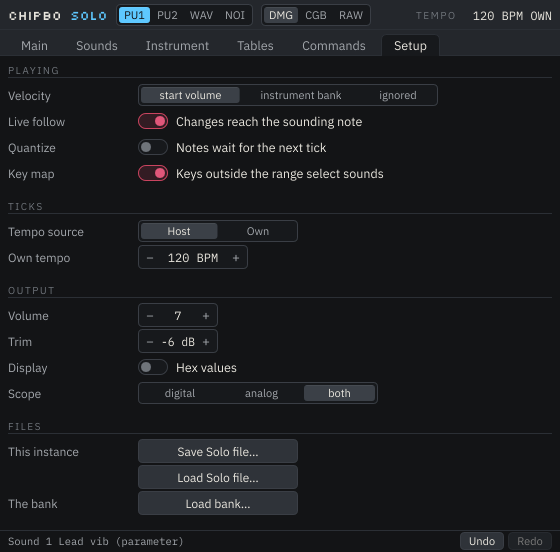
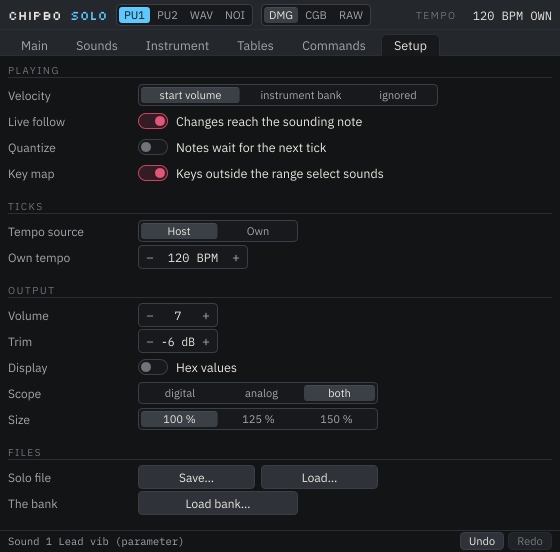
Solo: the window's size at 100 / 125 / 150 %, Save and Load on one Setup row
The content stays laid out at 560 x 552 and a transform draws it larger,
as the main window does; the choice is kept in the state as ui_scale. The
Setup page fits again without scrolling.

Claude-Session: https://claude.ai/code/session_017xjfhsuF4KGRWmf3FzZwSg

Changed region(s): [[0.2429, 0.7391, 0.6982, 0.8931], [0.0, 0.7391, 0.1518, 0.8931]]

diff --git a/Source/plugin/solo/SoloEditor.cpp b/Source/plugin/solo/SoloEditor.cpp
@@ -655,6 +655,16 @@ void CommandsPanel::resized()
 
 /* ------------------------------------------------------------- setup */
 
+namespace {
+/// Two buttons on one form row.
+class ButtonPair : public Component {
+public:
+    ButtonPair(const String& a, const String& b) : first(a), second(b) { addAndMakeVisible(first); addAndMakeVisible(second); }
+    TextButton first, second;
+    void resized() override { auto r = getLocalBounds(); first.setBounds(r.removeFromLeft((r.getWidth() - 6) / 2)); r.removeFromLeft(6); second.setBounds(r); }
+};
+} // namespace
+
 SetupPanel::SetupPanel(SoloProcessor& p) : EditorPanel(p), processor_(p)
 {
     addAndMakeVisible(scroll_);
@@ -725,17 +735,20 @@ SetupPanel::SetupPanel(SoloProcessor& p) : EditorPanel(p), processor_(p)
         seg->onChange = [this](int i) { processor_.apvts.state.setProperty("ui_scope_trace", i, nullptr); if (onScopeTrace) onScopeTrace(i); };
         out->add("Scope", std::move(seg), 240, 22, "The chip's steps, the analog stage's output after the coupling, or both over each other");
     }
+    {
+        auto seg = std::make_unique<Segmented>(StringArray{ "100 %", "125 %", "150 %" });
+        seg->setMini(true);
+        seg->setSelected(storedScale(processor_), dontSendNotification);
+        seg->onChange = [this](int i) { processor_.apvts.state.setProperty("ui_scale", i, nullptr); if (onScale) onScale(i); };
+        out->add("Size", std::move(seg), 240, 22, "The whole window in more pixels, for a high-resolution screen");
+    }
     stack->add(std::move(out));
     auto files = std::make_unique<FormGroup>("Files", 130);
     {
-        auto b = std::make_unique<TextButton>("Save Solo file" + String(CharPointer_UTF8("\xe2\x80\xa6")));
-        b->onClick = [this] { saveFile(); };
-        files->add("This instance", std::move(b), 160, 24, "The bank, the sounds, the library, the key map, the channel and the row as a .cbsolo file");
-    }
-    {
-        auto b = std::make_unique<TextButton>("Load Solo file" + String(CharPointer_UTF8("\xe2\x80\xa6")));
-        b->onClick = [this] { loadFile(); };
-        files->add("", std::move(b), 160, 24, "A .cbsolo file replaces all of that, as one undo step");
+        auto pair = std::make_unique<ButtonPair>("Save" + String(CharPointer_UTF8("\xe2\x80\xa6")), "Load" + String(CharPointer_UTF8("\xe2\x80\xa6")));
+        pair->first.onClick = [this] { saveFile(); };
+        pair->second.onClick = [this] { loadFile(); };
+        files->add("Solo file", std::move(pair), 240, 24, "The bank, the sounds, the library, the key maps, the channel and the row as a .cbsolo file; loading one replaces all of that, as one undo step");
     }
     {
         auto b = std::make_unique<TextButton>("Load bank" + String(CharPointer_UTF8("\xe2\x80\xa6")));
@@ -749,6 +762,7 @@ SetupPanel::SetupPanel(SoloProcessor& p) : EditorPanel(p), processor_(p)
 SetupPanel::~SetupPanel() = default;
 
 int SetupPanel::storedTrace(const SoloProcessor& p) { return std::clamp(int(p.apvts.state.getProperty("ui_scope_trace", 2)), 0, 2); }
+int SetupPanel::storedScale(const SoloProcessor& p) { return std::clamp(int(p.apvts.state.getProperty("ui_scale", 0)), 0, 2); }
 
 RichText SetupPanel::contextLine() const
 {
@@ -861,10 +875,12 @@ SoloEditor::SoloEditor(SoloProcessor& p)
 {
     setLookAndFeel(&lookAndFeel_);
     setWantsKeyboardFocus(true);
+    addAndMakeVisible(content_);
+    content_.setWantsKeyboardFocus(true);
     tempoLabel_.setUpperCase(true);
     for (auto* c : std::initializer_list<Component*>{ &wordmark_, &product_, &tempoLabel_, &tempo_, &channel_, &model_, &undoBtn_, &redoBtn_, &status_ })
-        addAndMakeVisible(c);
-    addChildComponent(strip_);
+        content_.addAndMakeVisible(c);
+    content_.addChildComponent(strip_);
     channel_.setMini(true);
     channel_.attach(param(processor_, solo::ids::channel));
     channel_.setTooltip("Which of the four voices this plugin is");
@@ -876,7 +892,7 @@ SoloEditor::SoloEditor(SoloProcessor& p)
     undoBtn_.onClick = [this] { undo(); };
     redoBtn_.onClick = [this] { redo(); };
     tabs_ = std::make_unique<TabBar>();
-    addAndMakeVisible(*tabs_);
+    content_.addAndMakeVisible(*tabs_);
 
     panels_[Sounds] = std::make_unique<SoundsPanel>(processor_);
     panels_[Instrument] = std::make_unique<InstrumentPanel>(processor_);
@@ -887,6 +903,7 @@ SoloEditor::SoloEditor(SoloProcessor& p)
     {
         auto setup = std::make_unique<SetupPanel>(processor_);
         setup->onScopeTrace = [this](int t) { strip_.setScopeTrace(t == 1 ? ScopeView::Trace::Analog : t == 2 ? ScopeView::Trace::Both : ScopeView::Trace::Digital); };
+        setup->onScale = [this](int i) { setScale(i == 1 ? 1.25f : i == 2 ? 1.5f : 1.0f); };
         panels_[Setup] = std::move(setup);
     }
     { const int t = SetupPanel::storedTrace(processor_); strip_.setScopeTrace(t == 1 ? ScopeView::Trace::Analog : t == 2 ? ScopeView::Trace::Both : ScopeView::Trace::Digital); }
@@ -896,7 +913,7 @@ SoloEditor::SoloEditor(SoloProcessor& p)
         panel->onContextChanged = [this] { refreshContext(); };
         panel->onMessage = [this](const String& text) { showMessage(text); };
         panel->onOpenSlot = [this](SlotKind kind, int slot) { openSlot(kind, slot); };
-        addChildComponent(*panel);
+        content_.addChildComponent(*panel);
     }
     strip_.onOpenSlot = [this](SlotKind kind, int slot) { openSlot(kind, slot); };
     strip_.onOpenSound = [this](int slot) { showTab(Sounds); panels_[Sounds]->selectSlot(slot); };
@@ -913,7 +930,7 @@ SoloEditor::SoloEditor(SoloProcessor& p)
 
     lastBank_ = processor_.bank().get();
     lastSolo_ = processor_.solo().get();
-    setSize(kSoloWidth, kSoloHeight);
+    { const int i = SetupPanel::storedScale(processor_); setScale(i == 1 ? 1.25f : i == 2 ? 1.5f : 1.0f); }
     channelChanged();
     showTab(Main);
     restoreView();
@@ -925,6 +942,15 @@ SoloEditor::~SoloEditor()
     stopTimer();
     saveView();
     setLookAndFeel(nullptr);
+}
+
+/// The scale multiplies the whole window: the content stays laid out at
+/// 560 x 552 and a transform draws it larger (UI_DESIGN section 2).
+void SoloEditor::setScale(float factor)
+{
+    scale_ = std::abs(factor - 1.25f) < 0.01f ? 1.25f : std::abs(factor - 1.5f) < 0.01f ? 1.5f : 1.0f;
+    content_.setTransform(AffineTransform::scale(scale_));
+    setSize(roundToInt(kSoloWidth * scale_), roundToInt(kSoloHeight * scale_));
 }
 
 void SoloEditor::channelChanged()
@@ -1063,7 +1089,8 @@ void SoloEditor::paint(Graphics& g)
 
 void SoloEditor::resized()
 {
-    auto area = getLocalBounds();
+    content_.setBounds(0, 0, kSoloWidth, kSoloHeight);
+    auto area = content_.getLocalBounds();
     auto head = area.removeFromTop(kHeader).reduced(kPad, 0);
     wordmark_.setBounds(head.removeFromLeft(62));
     product_.setBounds(head.removeFromLeft(38));
@@ -1109,7 +1136,7 @@ void SoloEditor::redo()
 
 bool SoloEditor::keyPressed(const KeyPress& key)
 {
-    if (key == KeyPress::escapeKey) { grabKeyboardFocus(); return true; }
+    if (key == KeyPress::escapeKey) { content_.grabKeyboardFocus(); return true; }
     const auto mods = key.getModifiers();
     if ((mods.isCtrlDown() || mods.isCommandDown()) && !typing()) {
         const auto ch = key.getTextCharacter();

diff --git a/Source/plugin/solo/SoloEditor.h b/Source/plugin/solo/SoloEditor.h
@@ -139,6 +139,9 @@ public:
     /// The scope's trace (0 digital, 1 analog, 2 both), kept as "ui_scope_trace".
     std::function<void(int)> onScopeTrace;
     static int storedTrace(const SoloProcessor& p);
+    /// The window's size (0: 100 %, 1: 125 %, 2: 150 %), kept as "ui_scale".
+    std::function<void(int)> onScale;
+    static int storedScale(const SoloProcessor& p);
 private:
     void saveFile();
     void loadFile();
@@ -159,6 +162,8 @@ public:
     ui::EditHistory& editHistory() override { return processor_.history(); }
     void showTab(int tab);
     void openSlot(ui::SlotKind kind, int slot);
+    /// 1.0, 1.25 or 1.5: the whole window in more pixels, as the main window does.
+    void setScale(float factor);
     void undo();
     void redo();
     void paint(juce::Graphics&) override;
@@ -180,6 +185,8 @@ private:
     SoloProcessor& processor_;
     ui::ChipBoyLookAndFeel lookAndFeel_;
     juce::TooltipWindow tooltips_;
+    juce::Component content_;         ///< everything, at 100 %; the scale is a transform on it
+    float scale_ = 1.0f;
     // header
     TextLine wordmark_, product_, tempoLabel_, tempo_;
     ui::Segmented channel_, model_;

diff --git a/docs/COMMANDS_AND_TEMPO.md b/docs/COMMANDS_AND_TEMPO.md
@@ -6828,7 +6828,9 @@ ChipBoy Voice, which stays in the tree this round.
   five seconds when there is one, and undo / redo. Setup holds what the row does not:
   velocity mode, Live follow, Quantize, the key map, tempo source and own tempo, volume,
   trim, Hex, the scope's trace (digital, analog or both, kept in the state as
-  `ui_scope_trace`; the analog trace follows the model's corner) and the files. The
+  `ui_scope_trace`; the analog trace follows the model's corner), the window's size (100,
+  125 or 150 %, a transform on the content as the main window's, kept as `ui_scale`) and
+  the files. The
   Commands page shows the row's two commands as they stand, since Main is not in view
   there; the Sounds list names the instrument and the letters each sound carries. The size is what the widest page needs:
   the Tables page shows all sixteen steps and the written-as column without scrolling.
@@ -6860,7 +6862,7 @@ ChipBoy Voice, which stays in the tree this round.
   bank and row; a channel change silences the channel left; a held note reloads under
   Live follow; `--load FILE` loads a Solo file and plays its first mapped key (the CTest
   `demo_solo_loads`). `chipboy_uishot --solo DIR` shoots every tab (`docs/screenshots/solo-*.png`).
-- **Left for later**: window scaling; MIDI learn for the slots; a live shared bank between a
+- **Left for later**: MIDI learn for the slots; a live shared bank between a
   Solo and a ChipBoy instance (a `.cbsolo` or a bank file carries it across); retiring
   ChipBoy Voice (its link region, the Link tab and `chipboy_linktest` go with it).
 

diff --git a/docs/UI_DESIGN.md b/docs/UI_DESIGN.md
@@ -741,7 +741,8 @@ a DAW track or a keyboard: 560 × 552, fixed, one page at a time -- the width an
   stepper's right click listing the bank by name; WAV only for the last two),
   **Commands** (the library with → CMD 1 / → CMD 2 and Store CMD 1 / 2, and the letter
   reference), **Setup** (velocity, Live follow, Quantize, the key map, tempo source and own
-  tempo, volume, trim, Hex, the `.cbsolo` and bank files).
+  tempo, volume, trim, Hex, the scope's trace, the window's size at 100 / 125 / 150 %, the
+  `.cbsolo` and bank files).
 - The status line: the page's context line, a message for a few seconds when there is one, undo and redo at its right.
 
 ![ChipBoy Solo: the Main page](screenshots/solo-main.png)

diff --git a/docs/HANDOFF.md b/docs/HANDOFF.md
@@ -133,7 +133,7 @@ state file is `ChipBoy.settings` under the app-data folder (`%APPDATA%\ChipBoy` 
 - **A record-test flake fixed on the way** (§226 amendment): a message for a row already
   fitted opened a second take and its finish cleared the row; late messages now merge onto
   the fitted grid. Seen once in a gate run, not reproduced after the fix in four runs.
-- Open: window scaling; MIDI learn for slots; a shared live bank between instances; the
+- Open: MIDI learn for slots; a shared live bank between instances; the
   Waves tab's synth section is wide for the window (it scrolls); the strip's LEVEL knob
   folds the sixteen levels onto WAV's four.
 
